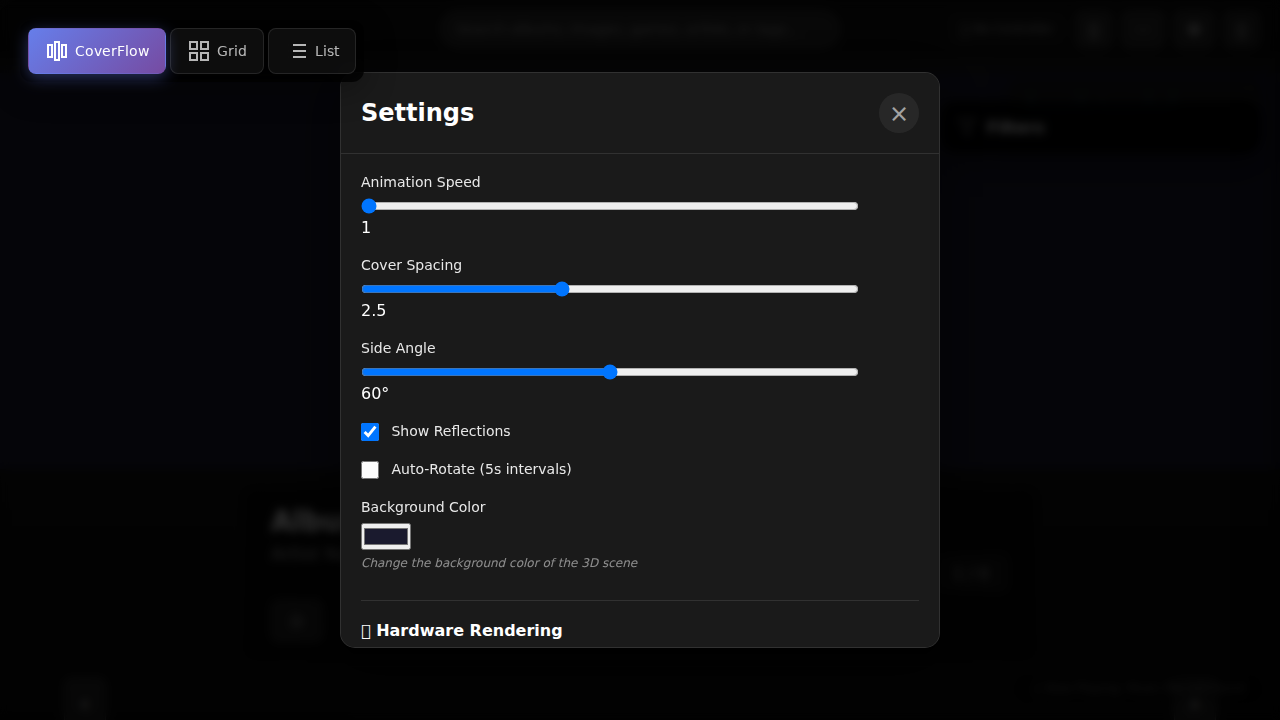
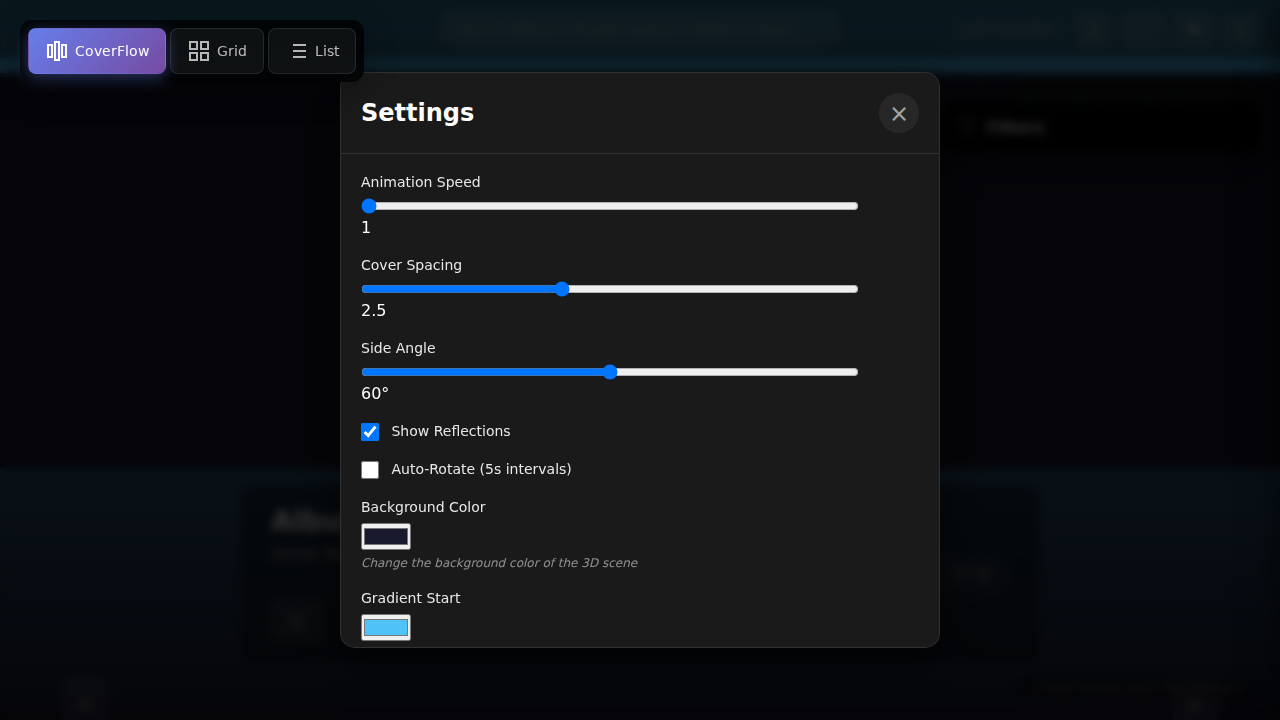
Fix settings initialization and enhance UI with custom gradients and scanning overlay
- Fixed initialization issue in settings where a failure would block button event listeners.
- Implemented customizable UI background gradient with start/end color pickers in Settings.
- Added a full-screen scanning overlay with spinner and progress to clearly indicate active scans.
- Updated `coverflow.js` to manage the overlay state during scan lifecycle.
- Refactored `setupSettingsControls` in `modules/coverflow-settings.js` for better robustness.

Changed region(s): [[0.0, 0.0, 1.0, 0.1222], [0.2812, 0.825, 0.4375, 0.9167]]

diff --git a/coverflow.js b/coverflow.js
@@ -1857,6 +1857,12 @@ class CoverFlow {
 
     // Start game scan
     async startGameScan() {
+        // Show the enhanced scanning overlay
+        const overlay = document.getElementById('scanning-overlay');
+        if (overlay) {
+            overlay.classList.remove('hidden');
+        }
+
         if (this.isElectron) {
             // Electron mode - use IPC
             const result = await window.electronAPI.startScan();
@@ -1866,6 +1872,8 @@ class CoverFlow {
                 document.getElementById('scan-games-btn').disabled = true;
             } else {
                 this.showToast(result.error || 'Failed to start scan', 'error');
+                // Hide overlay if failed immediately
+                if (overlay) overlay.classList.add('hidden');
             }
             return;
         }
@@ -1873,6 +1881,7 @@ class CoverFlow {
         // Browser mode - existing code
         if (!this.serverAvailable) {
             this.showToast('Game scanner server is not running. Please start the server first.', 'error');
+            if (overlay) overlay.classList.add('hidden');
             return;
         }
 
@@ -1895,10 +1904,12 @@ class CoverFlow {
             } else {
                 const error = await response.json();
                 this.showToast(error.error || 'Failed to start scan', 'error');
+                if (overlay) overlay.classList.add('hidden');
             }
         } catch (error) {
             console.error('Scan start error:', error);
             this.showToast('Failed to start game scan', 'error');
+            if (overlay) overlay.classList.add('hidden');
         }
     }
 
@@ -1907,6 +1918,10 @@ class CoverFlow {
         if (this.scanInterval) {
             clearInterval(this.scanInterval);
         }
+
+        const overlay = document.getElementById('scanning-overlay');
+        const overlayText = overlay ? overlay.querySelector('h2') : null;
+        const overlayProgress = document.getElementById('scan-progress-bar-overlay');
 
         this.scanInterval = setInterval(async () => {
             try {
@@ -1918,8 +1933,12 @@ class CoverFlow {
                     const statusText = document.getElementById('scan-status-text');
                     const progressBar = document.getElementById('scan-progress-bar');
 
-                    statusText.textContent = status.message;
-                    progressBar.style.width = status.progress + '%';
+                    if (statusText) statusText.textContent = status.message;
+                    if (progressBar) progressBar.style.width = status.progress + '%';
+
+                    // Update overlay text
+                    if (overlayText) overlayText.textContent = status.message || 'Scanning...';
+                    if (overlayProgress) overlayProgress.textContent = `${Math.round(status.progress)}%`;
 
                     // Check if scan is complete
                     if (!status.scanning) {
@@ -1930,6 +1949,7 @@ class CoverFlow {
                         setTimeout(() => {
                             document.getElementById('scan-progress-group').style.display = 'none';
                             document.getElementById('scan-games-btn').disabled = false;
+                            if (overlay) overlay.classList.add('hidden');
                         }, 2000);
 
                         if (status.error) {
@@ -1950,6 +1970,7 @@ class CoverFlow {
                 this.scanInterval = null;
                 document.getElementById('scan-progress-group').style.display = 'none';
                 document.getElementById('scan-games-btn').disabled = false;
+                if (overlay) overlay.classList.add('hidden');
             }
         }, 1000); // Poll every second
     }
@@ -1961,17 +1982,28 @@ class CoverFlow {
         const statusText = document.getElementById('scan-status-text');
         const progressBar = document.getElementById('scan-progress-bar');
 
+        const overlay = document.getElementById('scanning-overlay');
+        const overlayText = overlay ? overlay.querySelector('h2') : null;
+        const overlayProgress = document.getElementById('scan-progress-bar-overlay');
+
         if (statusText) statusText.textContent = status.message;
         if (progressBar) progressBar.style.width = status.progress + '%';
+
+        // Update overlay
+        if (overlayText) overlayText.textContent = status.message || 'Scanning...';
+        if (overlayProgress) overlayProgress.textContent = `${Math.round(status.progress)}%`;
     }
 
     // Handle scan completion from Electron
     async handleScanComplete(status) {
         if (!this.isElectron) return;
 
+        const overlay = document.getElementById('scanning-overlay');
+
         setTimeout(() => {
             document.getElementById('scan-progress-group').style.display = 'none';
             document.getElementById('scan-games-btn').disabled = false;
+            if (overlay) overlay.classList.add('hidden');
         }, 2000);
 
         if (status.error) {

diff --git a/modules/coverflow-settings.js b/modules/coverflow-settings.js
@@ -28,6 +28,8 @@ class CoverFlowSettings {
             autoRotate: false,
             autoRotateSpeed: 0.01,
             backgroundColor: '#1a1a2e',
+            gradientStart: '#4fc3f7',
+            gradientEnd: '#1a1a2e',
             glassEffect: true,
             bloomEffect: false,
             bloomIntensity: 1.0,
@@ -96,6 +98,7 @@ class CoverFlowSettings {
 
             // Apply visual settings
             this.updateBackgroundColor(this.settings.backgroundColor);
+            this.updateGradientColors(this.settings.gradientStart, this.settings.gradientEnd);
 
             if (this.settings.bloomEffect) {
                 this.toggleBloomEffect();
@@ -286,6 +289,20 @@ class CoverFlowSettings {
     }
 
     /**
+     * Update gradient colors
+     */
+    updateGradientColors(start, end) {
+        if (start) this.settings.gradientStart = start;
+        if (end) this.settings.gradientEnd = end;
+
+        const root = document.documentElement;
+        if (start) root.style.setProperty('--gradient-start', start);
+        if (end) root.style.setProperty('--gradient-end', end);
+
+        this.saveSettings();
+    }
+
+    /**
      * Setup settings panel controls
      */
     setupSettingsControls() {
@@ -359,6 +376,27 @@ class CoverFlowSettings {
                     this.updateBackgroundColor(e.target.value);
                 });
             }
+
+            // Gradient pickers
+            const gradientStartPicker = document.getElementById('gradient-start-color');
+            const gradientEndPicker = document.getElementById('gradient-end-color');
+
+            if (gradientStartPicker) {
+                gradientStartPicker.value = this.settings.gradientStart || '#4fc3f7';
+                gradientStartPicker.addEventListener('input', (e) => {
+                    this.updateGradientColors(e.target.value, null);
+                });
+            }
+
+            if (gradientEndPicker) {
+                gradientEndPicker.value = this.settings.gradientEnd || '#1a1a2e';
+                gradientEndPicker.addEventListener('input', (e) => {
+                    this.updateGradientColors(null, e.target.value);
+                });
+            }
+
+            // Initialize gradient colors from settings
+            this.updateGradientColors(this.settings.gradientStart, this.settings.gradientEnd);
 
             // Glass effect toggle
             const glassToggle = document.getElementById('glass-effect');

diff --git a/style.css b/style.css
@@ -4,6 +4,8 @@
     --secondary-color: #81c784;
     --background-color: #000000;
     --text-color: #ffffff;
+    --gradient-start: #4fc3f7;
+    --gradient-end: #1a1a2e;
 }
 
 * {
@@ -14,7 +16,7 @@
 
 body {
     font-family: -apple-system, BlinkMacSystemFont, 'Segoe UI', Roboto, Oxygen, Ubuntu, Cantarell, sans-serif;
-    background: linear-gradient(180deg, #1a1a1a 0%, #0a0a0a 100%);
+    background: linear-gradient(180deg, var(--gradient-start) 0%, var(--gradient-end) 100%);
     color: #ffffff;
     overflow: hidden;
     height: 100vh;
@@ -2031,3 +2033,56 @@ body.frosted-glass-mode #window-controls #close-btn:hover {
     border-color: rgba(255, 0, 0, 0.8);
 }
 
+
+/* Scanning Overlay */
+#scanning-overlay {
+    position: fixed;
+    top: 0;
+    left: 0;
+    width: 100%;
+    height: 100%;
+    background: rgba(0, 0, 0, 0.85);
+    backdrop-filter: blur(10px);
+    display: flex;
+    flex-direction: column;
+    justify-content: center;
+    align-items: center;
+    z-index: 10001; /* Higher than top bar */
+    transition: opacity 0.5s ease;
+}
+
+#scanning-overlay.hidden {
+    opacity: 0;
+    pointer-events: none;
+}
+
+#scanning-overlay h2 {
+    font-size: 24px;
+    margin-bottom: 20px;
+    color: var(--primary-color);
+    text-transform: uppercase;
+    letter-spacing: 2px;
+    animation: pulseText 2s infinite;
+}
+
+@keyframes pulseText {
+    0%, 100% { opacity: 1; transform: scale(1); }
+    50% { opacity: 0.7; transform: scale(1.05); }
+}
+
+#scanning-overlay .spinner {
+    width: 80px;
+    height: 80px;
+    border-width: 6px;
+    border-color: rgba(255, 255, 255, 0.1);
+    border-top-color: var(--primary-color);
+    margin-bottom: 30px;
+}
+
+#scan-progress-bar-overlay {
+    font-family: monospace;
+    color: #fff;
+    margin-top: 20px;
+    font-size: 16px;
+    color: var(--secondary-color);
+}

diff --git a/index.html b/index.html
@@ -27,6 +27,13 @@
         <p>Loading CoverFlow...</p>
     </div>
 
+    <!-- Scanning Overlay -->
+    <div id="scanning-overlay" class="hidden">
+        <div class="spinner"></div>
+        <h2>Scanning for Games...</h2>
+        <div id="scan-progress-bar-overlay"></div>
+    </div>
+
     <!-- Main Container -->
     <div id="container">
         <!-- Top Bar -->
@@ -165,6 +172,16 @@
                     <label>Background Color</label>
                     <input type="color" id="background-color" value="#000000">
                     <small class="setting-info">Change the background color of the 3D scene</small>
+                </div>
+                <div class="setting-group">
+                    <label>Gradient Start</label>
+                    <input type="color" id="gradient-start-color" value="#4fc3f7">
+                    <small class="setting-info">Top color of the UI background gradient</small>
+                </div>
+                <div class="setting-group">
+                    <label>Gradient End</label>
+                    <input type="color" id="gradient-end-color" value="#1a1a2e">
+                    <small class="setting-info">Bottom color of the UI background gradient</small>
                 </div>
 
                 <div class="setting-divider"></div>

diff --git a/verification/verify_changes.py b/verification/verify_changes.py
@@ -1,0 +1,45 @@
+from playwright.sync_api import sync_playwright
+import os
+
+def run():
+    with sync_playwright() as p:
+        browser = p.chromium.launch(headless=True)
+        page = browser.new_page()
+
+        # Determine the absolute path to index.html
+        cwd = os.getcwd()
+        file_path = f"file://{cwd}/index.html"
+
+        print(f"Navigating to {file_path}")
+        page.goto(file_path)
+
+        # Wait for settings to load (simulated)
+        page.wait_for_timeout(1000)
+
+        # 1. Verify gradient variables are set on body
+        gradient_start = page.evaluate("getComputedStyle(document.body).getPropertyValue('--gradient-start')").strip()
+        gradient_end = page.evaluate("getComputedStyle(document.body).getPropertyValue('--gradient-end')").strip()
+        print(f"Gradient Start: {gradient_start}")
+        print(f"Gradient End: {gradient_end}")
+
+        # 2. Open Settings modal to verify color pickers
+        settings_btn = page.locator("#settings-btn")
+        if settings_btn.is_visible():
+            settings_btn.click()
+            page.wait_for_timeout(500)
+            page.screenshot(path="verification/settings_modal.png")
+            print("Captured settings_modal.png")
+        else:
+            print("Settings button not visible")
+
+        # 3. Verify Scanning Overlay logic (simulate showing it)
+        # We can manually show it via JS to verify styles
+        page.evaluate("document.getElementById('scanning-overlay').classList.remove('hidden')")
+        page.wait_for_timeout(500)
+        page.screenshot(path="verification/scanning_overlay.png")
+        print("Captured scanning_overlay.png")
+
+        browser.close()
+
+if __name__ == "__main__":
+    run()
